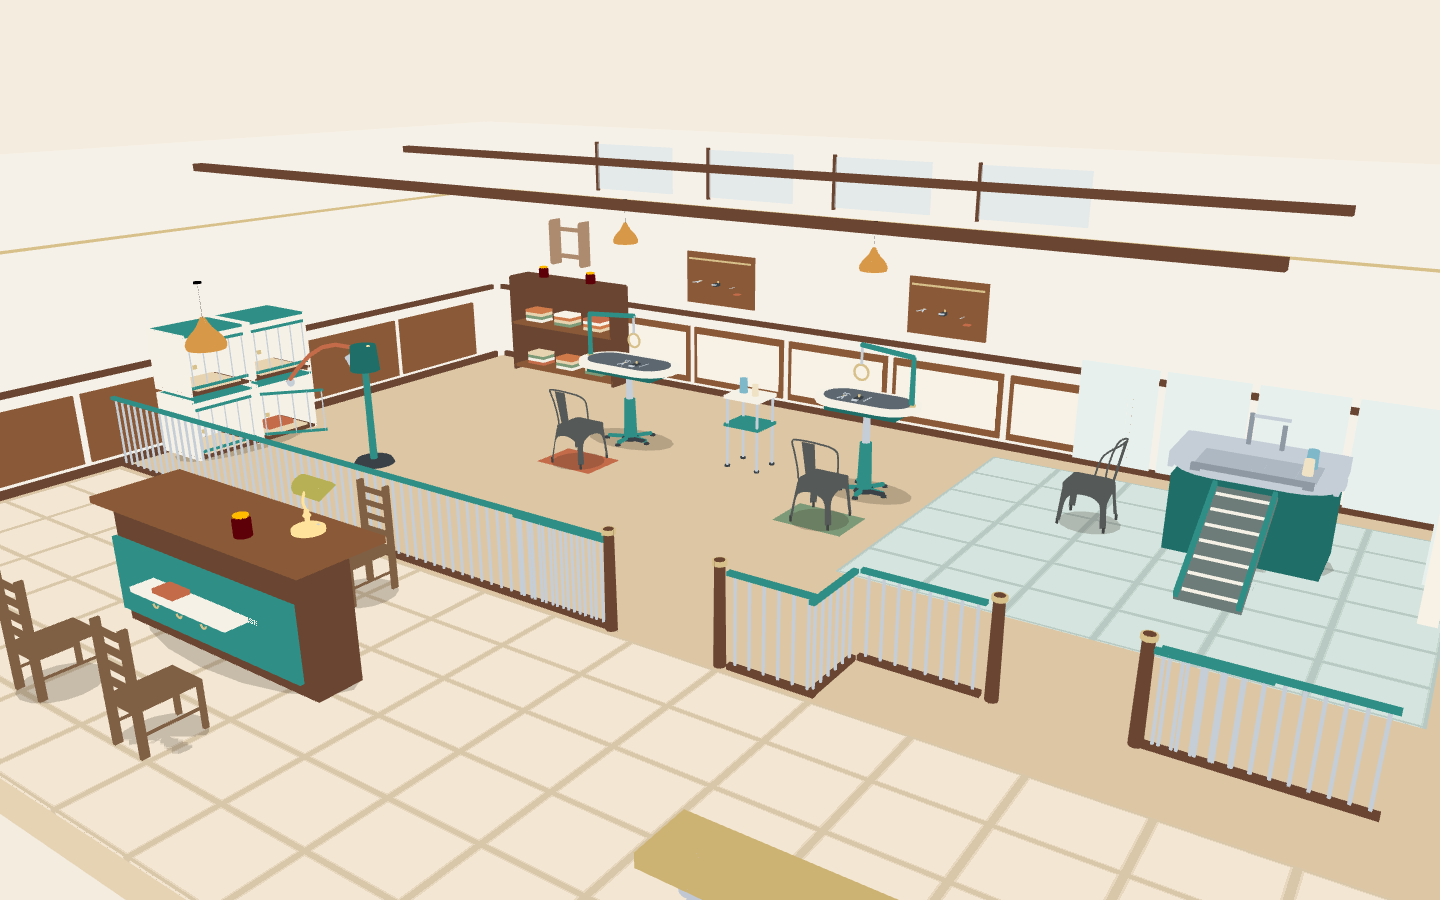
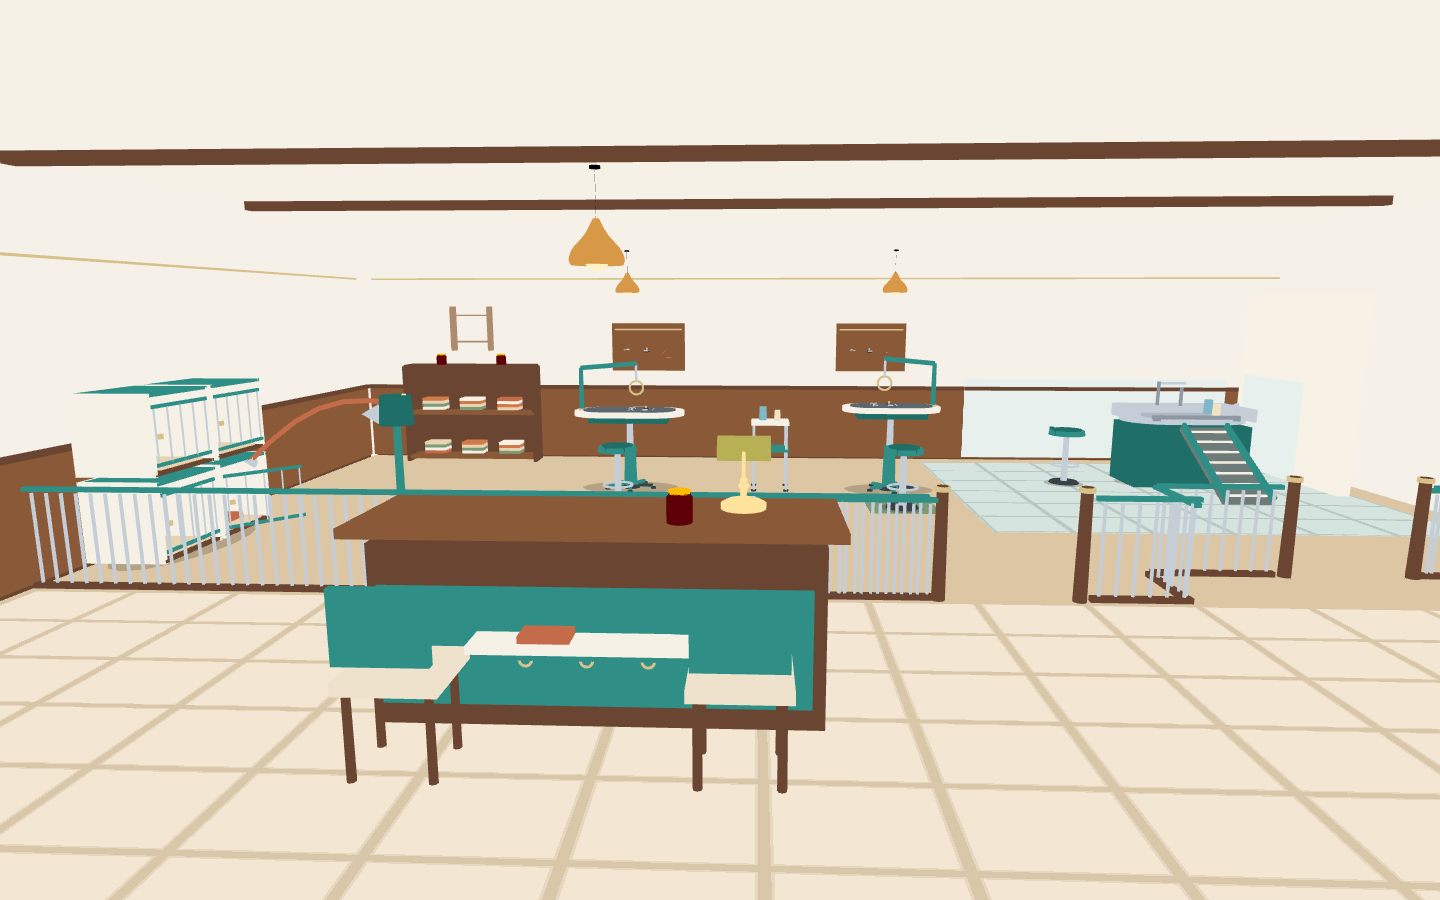
Close the grooming salon roof and replace leftover seats.
The establishing views sit under a roof deck instead of open sky, the camera holds the counter, tables, tub, and kennel, and work stools plus waiting chairs replace the dining, cafe, and museum seats.

diff --git a/experiments/indoor30-20261113/pet-grooming/grooming.js b/experiments/indoor30-20261113/pet-grooming/grooming.js
@@ -374,6 +374,12 @@ function toolBoard(g, b) {
   clipper(grp, b.x - 0.02, b.y + b.h * 0.42, b.z + 0.04);
   comb(grp, b.x + b.w * 0.22, b.y + b.h * 0.4, b.z + 0.04);
   brush(grp, b.x + b.w * 0.28, b.y + b.h * 0.28, b.z + 0.04);
+  grp.traverse((obj) => {
+    if (!obj.isMesh) return;
+    obj.castShadow = false;
+    obj.userData.noShadow = true;
+    obj.userData.receiveShadow = true;
+  });
   g.add(grp);
 }
 
@@ -456,6 +462,40 @@ function addPosts(g, opening) {
   }
 }
 
+function workStool(parent, seat) {
+  const g = new THREE.Group();
+  g.name = seat.id;
+  g.position.set(seat.position[0], 0, seat.position[2]);
+  g.rotation.y = seat.rotationY || 0;
+  const seatH = 0.62;
+  addCyl(g, 0.19, 0.2, 0.055, toon('#2f8f86'), 0, seatH, 0, 18);
+  addCyl(g, 0.16, 0.16, 0.02, toon('#1f6f68'), 0, seatH + 0.03, 0, 16);
+  addBox(g, 0.2, 0.07, 0.035, toon('#1f6f68'), 0, seatH + 0.02, -0.15);
+  addCyl(g, 0.032, 0.038, seatH - 0.1, steel(), 0, (seatH - 0.1) / 2 + 0.05, 0, 10);
+  const ring = new THREE.Mesh(new THREE.TorusGeometry(0.15, 0.012, 6, 18), steel());
+  ring.rotation.x = Math.PI / 2;
+  ring.position.set(0, 0.24, 0);
+  ring.castShadow = true;
+  g.add(ring);
+  addCyl(g, 0.15, 0.17, 0.028, ink(), 0, 0.04, 0, 16);
+  parent.add(g);
+}
+
+function waitingChair(parent, seat) {
+  const g = new THREE.Group();
+  g.name = seat.id;
+  g.position.set(seat.position[0], 0, seat.position[2]);
+  g.rotation.y = seat.rotationY || 0;
+  addBox(g, 0.46, 0.06, 0.42, toon('#efe2cc'), 0, 0.46, 0.02);
+  for (const sx of [-1, 1]) {
+    for (const sz of [-1, 1]) {
+      addCyl(g, 0.02, 0.022, 0.44, wood(), sx * 0.18, 0.22, sz * 0.15, 8);
+    }
+  }
+  addBox(g, 0.42, 0.34, 0.04, toon('#2f8f86'), 0, 0.74, -0.18);
+  parent.add(g);
+}
+
 function contact(g, x, z, rx, rz) {
   const mesh = new THREE.Mesh(
     new THREE.CircleGeometry(1, 16),
@@ -486,39 +526,44 @@ function makeShell(layout) {
   dress(addBox(g, W - 0.35, 0.08, 0.06, wood(), 0, 0.05, innerB));
   dress(addBox(g, 0.06, 0.08, D - 0.35, wood(), innerL, 0.05, 0));
 
-  const panels = woodMid();
-  const inset = toon('#f7f1e6');
-  const spanX = W - 1.4;
-  const nX = 8;
-  for (let i = 0; i < nX; i++) {
-    const x = -W / 2 + 0.7 + (i + 0.5) * (spanX / nX);
-    if (x > 2.3) continue;
-    addBox(g, spanX / nX - 0.08, 0.72, 0.03, panels, x, 0.5, innerB + 0.02);
-    addBox(g, spanX / nX - 0.18, 0.56, 0.015, inset, x, 0.5, innerB + 0.04);
-  }
-  const nZ = 6;
-  for (let i = 0; i < nZ; i++) {
-    const z = -D / 2 + 0.55 + (i + 0.5) * ((D - 1.1) / nZ);
-    addBox(g, 0.03, 0.72, (D - 1.1) / nZ - 0.08, panels, innerL + 0.02, 0.5, z);
-  }
+  const dado = woodMid();
+  dress(addBox(g, W - 0.28, 0.92, 0.045, dado, 0, 0.5, innerB + 0.015));
+  dress(addBox(g, 0.045, 0.92, D - 0.28, dado, innerL + 0.015, 0.5, 0));
+  dress(addBox(g, W - 0.24, 0.05, 0.04, wood(), 0, 0.98, innerB + 0.03));
+  dress(addBox(g, 0.04, 0.05, D - 0.24, wood(), innerL + 0.03, 0.98, 0));
   const wetTiles = toon('#e7f0ec');
-  for (let i = 0; i < 4; i++) {
-    const x = 2.55 + i * 0.85;
-    addBox(g, 0.78, 1.05, 0.02, wetTiles, x, 0.62, innerB + 0.05);
-  }
-  addBox(g, W - 0.4, 0.06, 0.05, wood(), 0, 1.02, innerB + 0.03);
-  addBox(g, 0.05, 0.06, D - 0.4, wood(), innerL + 0.03, 1.02, 0);
-  addBox(g, W - 0.5, 0.025, 0.03, brass(), 0, 2.35, innerB + 0.02);
-  addBox(g, 0.03, 0.025, D - 0.5, brass(), innerL + 0.02, 2.35, 0);
+  dress(addBox(g, 3.4, 1.05, 0.03, wetTiles, 3.7, 0.58, innerB + 0.03));
+  dress(addBox(g, W - 0.5, 0.02, 0.025, brass(), 0, 2.42, innerB + 0.02));
+  dress(addBox(g, 0.025, 0.02, D - 0.5, brass(), innerL + 0.02, 2.42, 0));
 
-  for (let i = 0; i < 4; i++) {
-    const x = -3.6 + i * 1.7;
-    addBox(g, 1.15, 0.55, 0.04, toon('#d5e4ea', { transparent: true, opacity: 0.55, depthWrite: false }), x, 2.75, innerB + 0.04);
-    addBox(g, 0.03, 0.6, 0.04, wood(), x - 0.58, 2.75, innerB + 0.05);
-  }
-
-  for (const z of [-2.55, 0.15]) {
-    addBox(g, W - 2.4, 0.07, 0.1, wood(), -0.4, H - 0.18, z);
+  const deckW = W + 2.6;
+  const deckD = D + 3.6;
+  const deckX = -W / 2 + deckW / 2;
+  const deckZ = -D / 2 + deckD / 2;
+  const deck = addBox(
+    g, deckW, 0.14, deckD,
+    toon(layout.shell.ceilingColor || '#f7f3ea', { emissive: '#f3eadc', emissiveIntensity: 0.22 }),
+    deckX, H - 0.04, deckZ,
+  );
+  deck.name = 'roof-deck';
+  deck.castShadow = false;
+  deck.userData.noShadow = true;
+  deck.receiveShadow = false;
+  const fascia = (mesh) => {
+    mesh.castShadow = false;
+    mesh.userData.noShadow = true;
+    mesh.receiveShadow = false;
+    return mesh;
+  };
+  fascia(addBox(g, deckW + 0.08, 0.22, 0.18, wood(), deckX, H - 0.12, -D / 2 + deckD));
+  fascia(addBox(g, 0.18, 0.22, deckD + 0.08, wood(), -W / 2 + deckW, H - 0.12, deckZ));
+  const returnWall = addBox(g, 0.12, H, 5.8, toon(layout.shell.wallColor || '#f6f1e8'), W / 2 - 0.06, H / 2, -D / 2 + 2.9);
+  returnWall.name = 'right-return';
+  returnWall.castShadow = false;
+  returnWall.userData.noShadow = true;
+  returnWall.userData.receiveShadow = true;
+  for (const z of [-1.55, 1.15]) {
+    addBox(g, W - 1.6, 0.08, 0.12, wood(), -0.35, H - 0.2, z);
   }
   const pier = layout.stations.pier;
   addBox(g, pier.w, pier.h, pier.d, toon('#f7f1e6'), pier.x, pier.h / 2, pier.z);
@@ -541,6 +586,10 @@ function makeProcedural(layout) {
   toolBoard(g, s.boardB);
   toolCart(g, s.cart);
   handoffCounter(g, s.counter);
+  for (const seat of layout.seats || []) {
+    if (seat.kind === 'stool') workStool(g, seat);
+    else waitingChair(g, seat);
+  }
   for (const barrier of layout.barriers) addBarrier(g, barrier);
   for (const opening of layout.openings) addPosts(g, opening);
 
@@ -549,10 +598,8 @@ function makeProcedural(layout) {
   contact(g, s.tub.x, s.tub.z, 0.7, 0.4);
   contact(g, s.kennel.x, s.kennel.z, 0.4, 0.8);
   contact(g, s.counter.x, s.counter.z, 1.15, 0.4);
-  for (const inst of layout.instances) {
-    if (inst.position[1] > 0.2) continue;
-    if (!inst.id.startsWith('chair') && !inst.id.startsWith('bench')) continue;
-    contact(g, inst.position[0], inst.position[2], 0.28, 0.28);
+  for (const seat of layout.seats || []) {
+    contact(g, seat.position[0], seat.position[2], seat.kind === 'stool' ? 0.22 : 0.26, seat.kind === 'stool' ? 0.22 : 0.26);
   }
 
   const matA = addBox(g, 0.7, 0.012, 0.5, toon('#c46b4a'), s.tableA.x, 0.02, -1.72);

diff --git a/experiments/indoor30-20261113/pet-grooming/scene_lib.js b/experiments/indoor30-20261113/pet-grooming/scene_lib.js
@@ -181,11 +181,15 @@ export function makeCutawayShell(layout) {
   back.position.set(0, H / 2, -D / 2);
   back.receiveShadow = true;
   back.castShadow = false;
+  back.userData.noShadow = true;
+  back.userData.receiveShadow = true;
   g.add(back);
   const left = new THREE.Mesh(new THREE.BoxGeometry(0.12, H, D), wallMat);
   left.position.set(-W / 2, H / 2, 0);
   left.receiveShadow = true;
   left.castShadow = false;
+  left.userData.noShadow = true;
+  left.userData.receiveShadow = true;
   g.add(left);
   return g;
 }
@@ -263,15 +267,15 @@ export async function boot(opts) {
   const key = new THREE.DirectionalLight(keySpec.color, keySpec.intensity);
   key.position.set(...keySpec.position);
   key.castShadow = true;
-  key.shadow.mapSize.set(2048, 2048);
+  key.shadow.mapSize.set(4096, 4096);
   key.shadow.camera.near = 2;
   key.shadow.camera.far = 40;
-  key.shadow.camera.left = -12;
-  key.shadow.camera.right = 12;
-  key.shadow.camera.top = 12;
-  key.shadow.camera.bottom = -12;
-  key.shadow.bias = -0.00055;
-  key.shadow.normalBias = 0.045;
+  key.shadow.camera.left = -7;
+  key.shadow.camera.right = 7;
+  key.shadow.camera.top = 7;
+  key.shadow.camera.bottom = -7;
+  key.shadow.bias = -0.00025;
+  key.shadow.normalBias = 0.04;
   scene.add(key);
   const fillSpec = layout.lights?.fill || { color: 0xe6d5c4, intensity: 0.42, position: [-6, 7, 3] };
   const fill = new THREE.DirectionalLight(fillSpec.color, fillSpec.intensity);
@@ -359,6 +363,10 @@ export async function boot(opts) {
     const p = presets[camKey];
     camera.position.set(...p.position);
     controls.target.set(...p.target);
+    if (p.fov) {
+      camera.fov = p.fov;
+      camera.updateProjectionMatrix();
+    }
     controls.update();
   }
 

diff --git a/experiments/indoor30-20261113/pet-grooming/refs/GAP.md b/experiments/indoor30-20261113/pet-grooming/refs/GAP.md
@@ -8,9 +8,6 @@ Existing sand3d bakes were inspected from their node names, materials, and textu
 
 Selected:
 
-- Dining chair for the receptionist and the two guests. Front is +Z at rotation 0, so guests use π and face the counter.
-- Metal dining chair for the two groomers and the bather. Same facing rule. Groomers face −Z into the tables. The bather uses −π/2 and faces the tub.
-- Museum bench as the waiting seat, turned so its long axis runs along X.
 - Wall shelf over the towel cubby.
 - Library lamp on the handoff counter. The shade points −Z, over the staff side.
 - Three pendant lamps, scaled to the shade and hung under the beams.
@@ -26,6 +23,7 @@ Rejected after inspection, not copied in:
 - Bar counter and cash register: a bar, and the register materials are near black.
 - Bar stool: black rubber foot.
 - Sofa: a domestic couch, not a salon waiting seat.
+- Wooden dining chair, metal cafe chair, and museum bench: rendered in the first pass. They read as dining, cafe, and gallery leftovers. Removed. Guests use a one-piece waiting chair. Groomers, the bather, and the receptionist use round work stools. No catalog stool or waiting chair was copied in.
 - Display bookcase and study desk: library furniture, and the bookcase ships with no materials.
 - POS terminal (`pos_terminal__91c277a25bc3`): rendered on the counter. The screen is a near-black slab and blocked the handoff. Removed after that shot.
 
@@ -37,6 +35,8 @@ Rejected after inspection, not copied in:
 - Towel cubbies and wall tool boards.
 - Handoff counter with a lower ledge, leash hooks, and a folded towel.
 - Spindle pet gates. The leaves are folded onto the rails so the 0.98 m and 0.95 m openings stay clear.
+- Round work stools with a foot ring, and two waiting chairs with a solid low back.
+- A roof deck with a wood fascia on the open edges, so the establishing views sit under a ceiling.
 
 ## Limits
 
@@ -46,3 +46,5 @@ Rejected after inspection, not copied in:
 - The toon ramp bottoms at 72/255 so shadows stay brown instead of black. Contact discs are fake AO. The vendored toon path has no GTAO.
 - Floor tiles are 128² canvas repeats. No photograph textures.
 - No animals, no barber chair, no mirror wall, no exam light.
+- The establishing camera sits outside the front opening, under the roof overhang, so the kennel and the tub share one frame. The waiting floor in front of the counter is still a wide tile field.
+- The right cutaway is closed by a return wall behind the tub. The front stays open.

diff --git a/experiments/indoor30-20261113/pet-grooming/ATTRIBUTIONS.md b/experiments/indoor30-20261113/pet-grooming/ATTRIBUTIONS.md
@@ -1,10 +1,7 @@
 # Attributions
 
-No new bulk GLBs. Furniture is symlinked from existing scene bakes of Hugging Face `Sandflow/sand3d-objaverse` programs (CC-BY). The grooming tables, arms, loops, raised tub, ramp, kennels, dryer, gates, towels, tools, and counter are original geometry in `grooming.js`.
+No new bulk GLBs. Small props are symlinked from existing scene bakes of Hugging Face `Sandflow/sand3d-objaverse` programs (CC-BY). The grooming tables, arms, loops, raised tub, ramp, kennels, dryer, gates, towels, tools, counter, work stools, waiting chairs, and roof deck are original geometry in `grooming.js`.
 
-- **Wooden Dining Chair** (`objaverse-5e1f7a56da4a4dab8ad64efd46ed9d9f`) — by vikki0612, CC-BY-4.0. `library/assets/dining_chair__5e1f7a56da4a.glb`
-- **Fusion Metal Dining Chair with Wood Seat** (`objaverse-a83a693ec68f47b6aeaeef9c94e6ad9e`) — by allenbranch, CC-BY-4.0. `cafe/assets/simple_chair__a83a693ec68f.glb`
-- **Bench** (`objaverse-0025f9484fc64af29f59cf11a8beced7`) — by RookeyJerry, CC-BY-4.0. `museum/assets/museum_bench__0025f9484fc6.glb`
 - **Wall shelf** (`objaverse-8732f5e14a30461f83bcb34a9101cbc0`) — "CC0 - Wall Shelf 4" by plaggy, CC-BY-4.0. `cafe/assets/wall_shelf__8732f5e14a30.glb`
 - **Library Desk Lamp** (`objaverse-06accd4e0351480e8c4eb2f28fadaa35`) — by oriolescolarcano, CC-BY-4.0. `library/assets/library_lamp__06accd4e0351.glb`
 - **Pendant lamp** — "Modern ceiling lamp" by krolzuzannapl, CC-BY-4.0. `cafe/assets/pendant_lamp__1b528c6ab04e.glb`

diff --git a/experiments/indoor30-20261113/pet-grooming/README.md b/experiments/indoor30-20261113/pet-grooming/README.md
@@ -24,6 +24,6 @@ node --test experiments/indoor30-20261113/pet-grooming/tests/scene.test.mjs
 node experiments/indoor30-20261113/pet-grooming/tests/render_shots.mjs
 ```
 
-The layout test covers clearances, human scale, facing, and that GLBs and Three.js stay symlinks out of this folder. The render script loads every GLB, fails on console errors, checks table, tub, counter, chair, and bench heights, and writes the four shots.
+The layout test covers clearances, human scale, facing, and that GLBs and Three.js stay symlinks out of this folder. The render script loads every GLB, fails on console errors, checks table, tub, counter, stool, waiting-chair, and roof heights, and writes the four shots.
 
-GLBs and `vendor/` are symlinks into `cafe/`, `library/`, and `museum/`. Do not copy them.
+GLBs and `vendor/` are symlinks into `cafe/` and `library/`. Do not copy them. Work stools, waiting chairs, and the roof deck are procedural.
